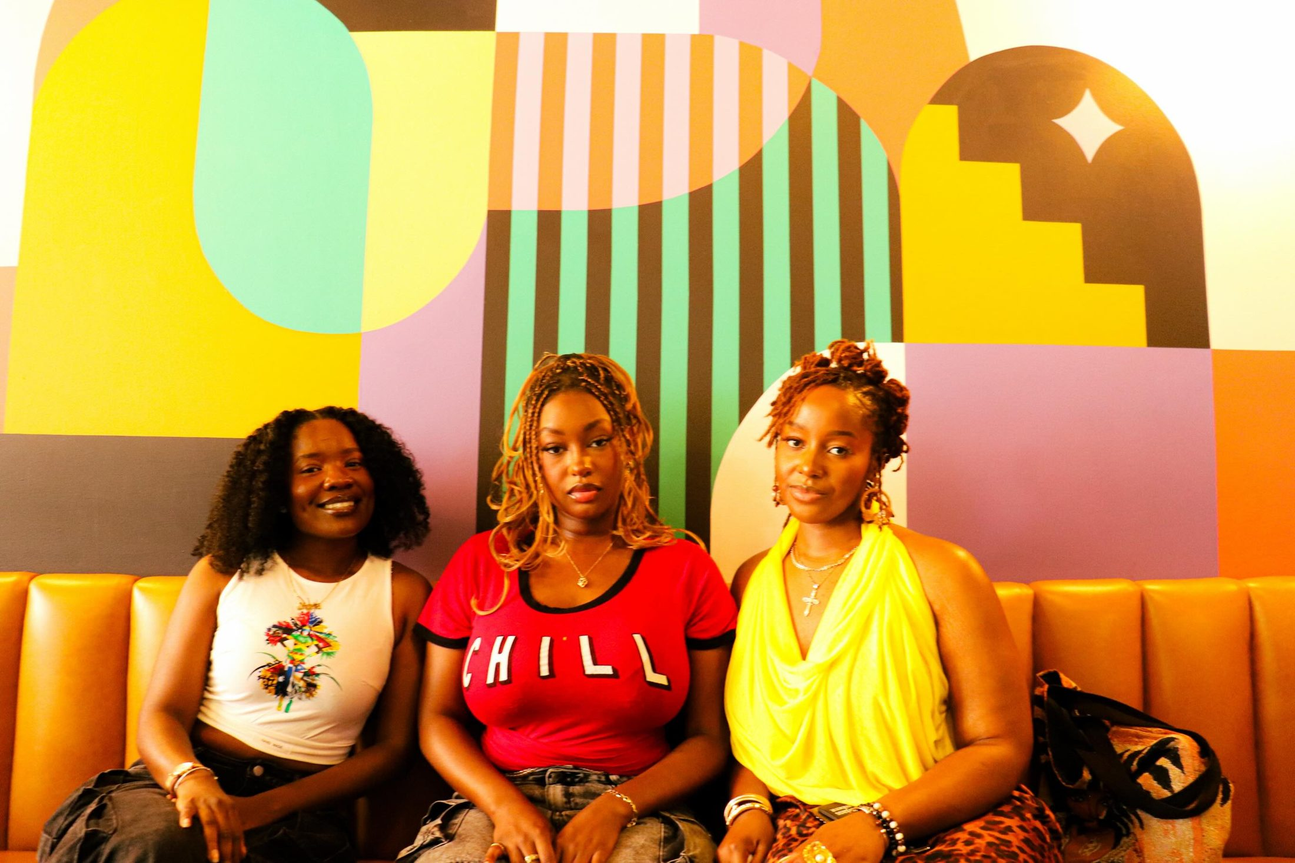
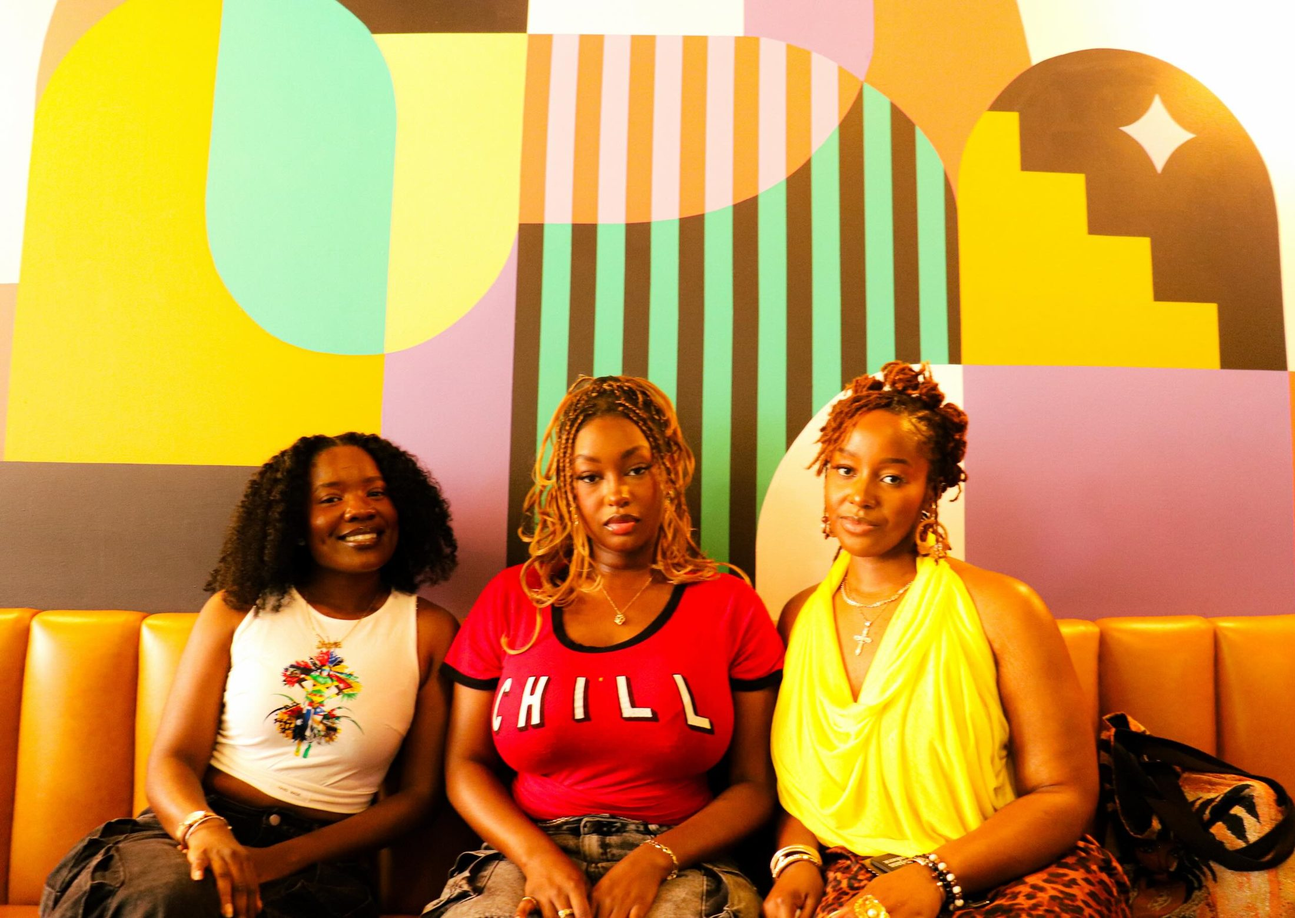
site: hero photos per device; undo the passport change
- phones get their own portrait hero (two friends laughing, from an
  approved night) instead of a squeezed crop of the landscape shot
- desktop: the couch photo is re-cropped so the three friends sit on the
  hero's centre line (they were ~3% left of it)
- both served through <picture>, so each device loads one image
- the passport on phones is back to its previous stage and padding

diff --git a/src/views/site/styles/base.css b/src/views/site/styles/base.css
@@ -206,16 +206,13 @@ html.pxr-doc body { background: transparent; overflow-x: clip; }
 .pxr .hero .ctas * { cursor: pointer; }
 .pxr .room,
 .pxr .room-lit { position: absolute; inset: -3%; }
+.pxr .room picture,
+.pxr .room-lit picture { display: contents; }
 .pxr .room img,
 .pxr .room-lit img { width: 100%; height: 100%; object-fit: cover; }
-/* Phones: the three friends span ~65% of the photo's width, but a full-bleed portrait crop shows only
-   ~39% — so the photo is sized to their width instead, centred on them (47% across), across the middle of
-   the dark hero. Above and below stays black, which is the lights-out look anyway. */
-@media (max-width: 860px) and (orientation: portrait) {
-  .pxr .room img,
-.pxr .room-lit img { position: absolute; left: 50%; top: 50%; width: 158vw; max-width: none; height: auto; translate: -47% -50%; object-fit: fill;
-    -webkit-mask-image: linear-gradient(transparent, #000 16%, #000 84%, transparent); mask-image: linear-gradient(transparent, #000 16%, #000 84%, transparent); }
-}
+/* Phones get their own portrait photo (<picture> in HomeView); the two friends sit a little above centre */
+@media (max-width: 860px) and (orientation: portrait) { .pxr .room img,
+.pxr .room-lit img { object-position: 44% 30%; } }
 .pxr .room { --mx: 50%; --my: 42%; --lr: 280px; -webkit-mask-image: radial-gradient(circle var(--lr) at var(--mx) var(--my), #000 0%, rgba(0, 0, 0, .5) 42%, rgba(0, 0, 0, .085) 100%); mask-image: radial-gradient(circle var(--lr) at var(--mx) var(--my), #000 0%, rgba(0, 0, 0, .5) 42%, rgba(0, 0, 0, .085) 100%); filter: brightness(.6) saturate(.85); }
 .pxr .room-lit { opacity: 0; filter: brightness(1.12) contrast(1.06) saturate(.9); }
 .pxr .hero-scrim { position: absolute; inset: 0; pointer-events: none; background: radial-gradient(46% 40% at 50% 50%, rgba(5, 5, 5, .82), rgba(5, 5, 5, .35) 70%, transparent 100%), linear-gradient(180deg, #050505 0%, transparent 18%, transparent 78%, #050505 100%); }
@@ -849,14 +846,12 @@ html.pxr-doc { overflow-x: clip; }
 
   /* phones fill the space between the copy and the screen's bottom edge — never past it (the section
      clips there). Their foot sits behind the fixed time/app pills while pinned and comes into view as
-     the scene scrolls away. The phone-only stage sizes (data-mw/mh) are cut to the drawn content, so
-     no stage carries empty space under its phone or passport. */
+     the scene scrolls away. (The passport keeps its own layout: #stamp rules above.) */
   .pxr.home #camera .scene-grid,
 .pxr.home #roll .scene-grid,
-.pxr.home #stamp .scene-grid,
 .pxr.home #post .scene-grid { padding-top: 62px; padding-bottom: 0; row-gap: 4px; }
-  .pxr.home #stamp .stage-box,
-.pxr.home #post .stage-box { margin-top: 8px; }
+  .pxr.home #post .stage-box { margin-top: 8px; }
+  .pxr.home #stamp .stage-box { margin-top: 14px; }
 }
 
 /* Home scrolls vertically only: a diagonal swipe must not nudge the page sideways. The stories

diff --git a/src/views/site/home/HomeView.jsx b/src/views/site/home/HomeView.jsx
@@ -51,10 +51,10 @@ export default function HomeView() {
         {/* ============ HERO — lights out, tap to shoot ============ */}
         <section className="hero" id="hero">
           <div className="room" aria-hidden="true">
-            <img src="/site/img/hero-crew.jpg" alt="" />
+            <picture><source media="(max-width: 860px) and (orientation: portrait)" srcSet="/site/img/hero-night-portrait.jpg" /><img src="/site/img/hero-crew.jpg?v=2" alt="" /></picture>
           </div>
           <div className="room-lit" aria-hidden="true">
-            <img src="/site/img/hero-crew.jpg" alt="" />
+            <picture><source media="(max-width: 860px) and (orientation: portrait)" srcSet="/site/img/hero-night-portrait.jpg" /><img src="/site/img/hero-crew.jpg?v=2" alt="" /></picture>
           </div>
           <div className="hero-scrim" aria-hidden="true"></div>
           <div className="shots" aria-hidden="true"></div>
@@ -299,7 +299,7 @@ export default function HomeView() {
               </div>
             </div>
             <div className="stage-box">
-              <div className="stage" data-w="480" data-h="712" data-mw="372" data-mh="560" data-max="1.5">
+              <div className="stage" data-w="480" data-h="712" data-mw="480" data-mh="706" data-max="1.5">
                 <div className="passport-host" role="img" aria-label="A PXI passport filling with verified event stamps"></div>{' '}
                 <span className="ink-ring" aria-hidden="true"></span>{' '}
                 <div className="specks" aria-hidden="true"></div>
